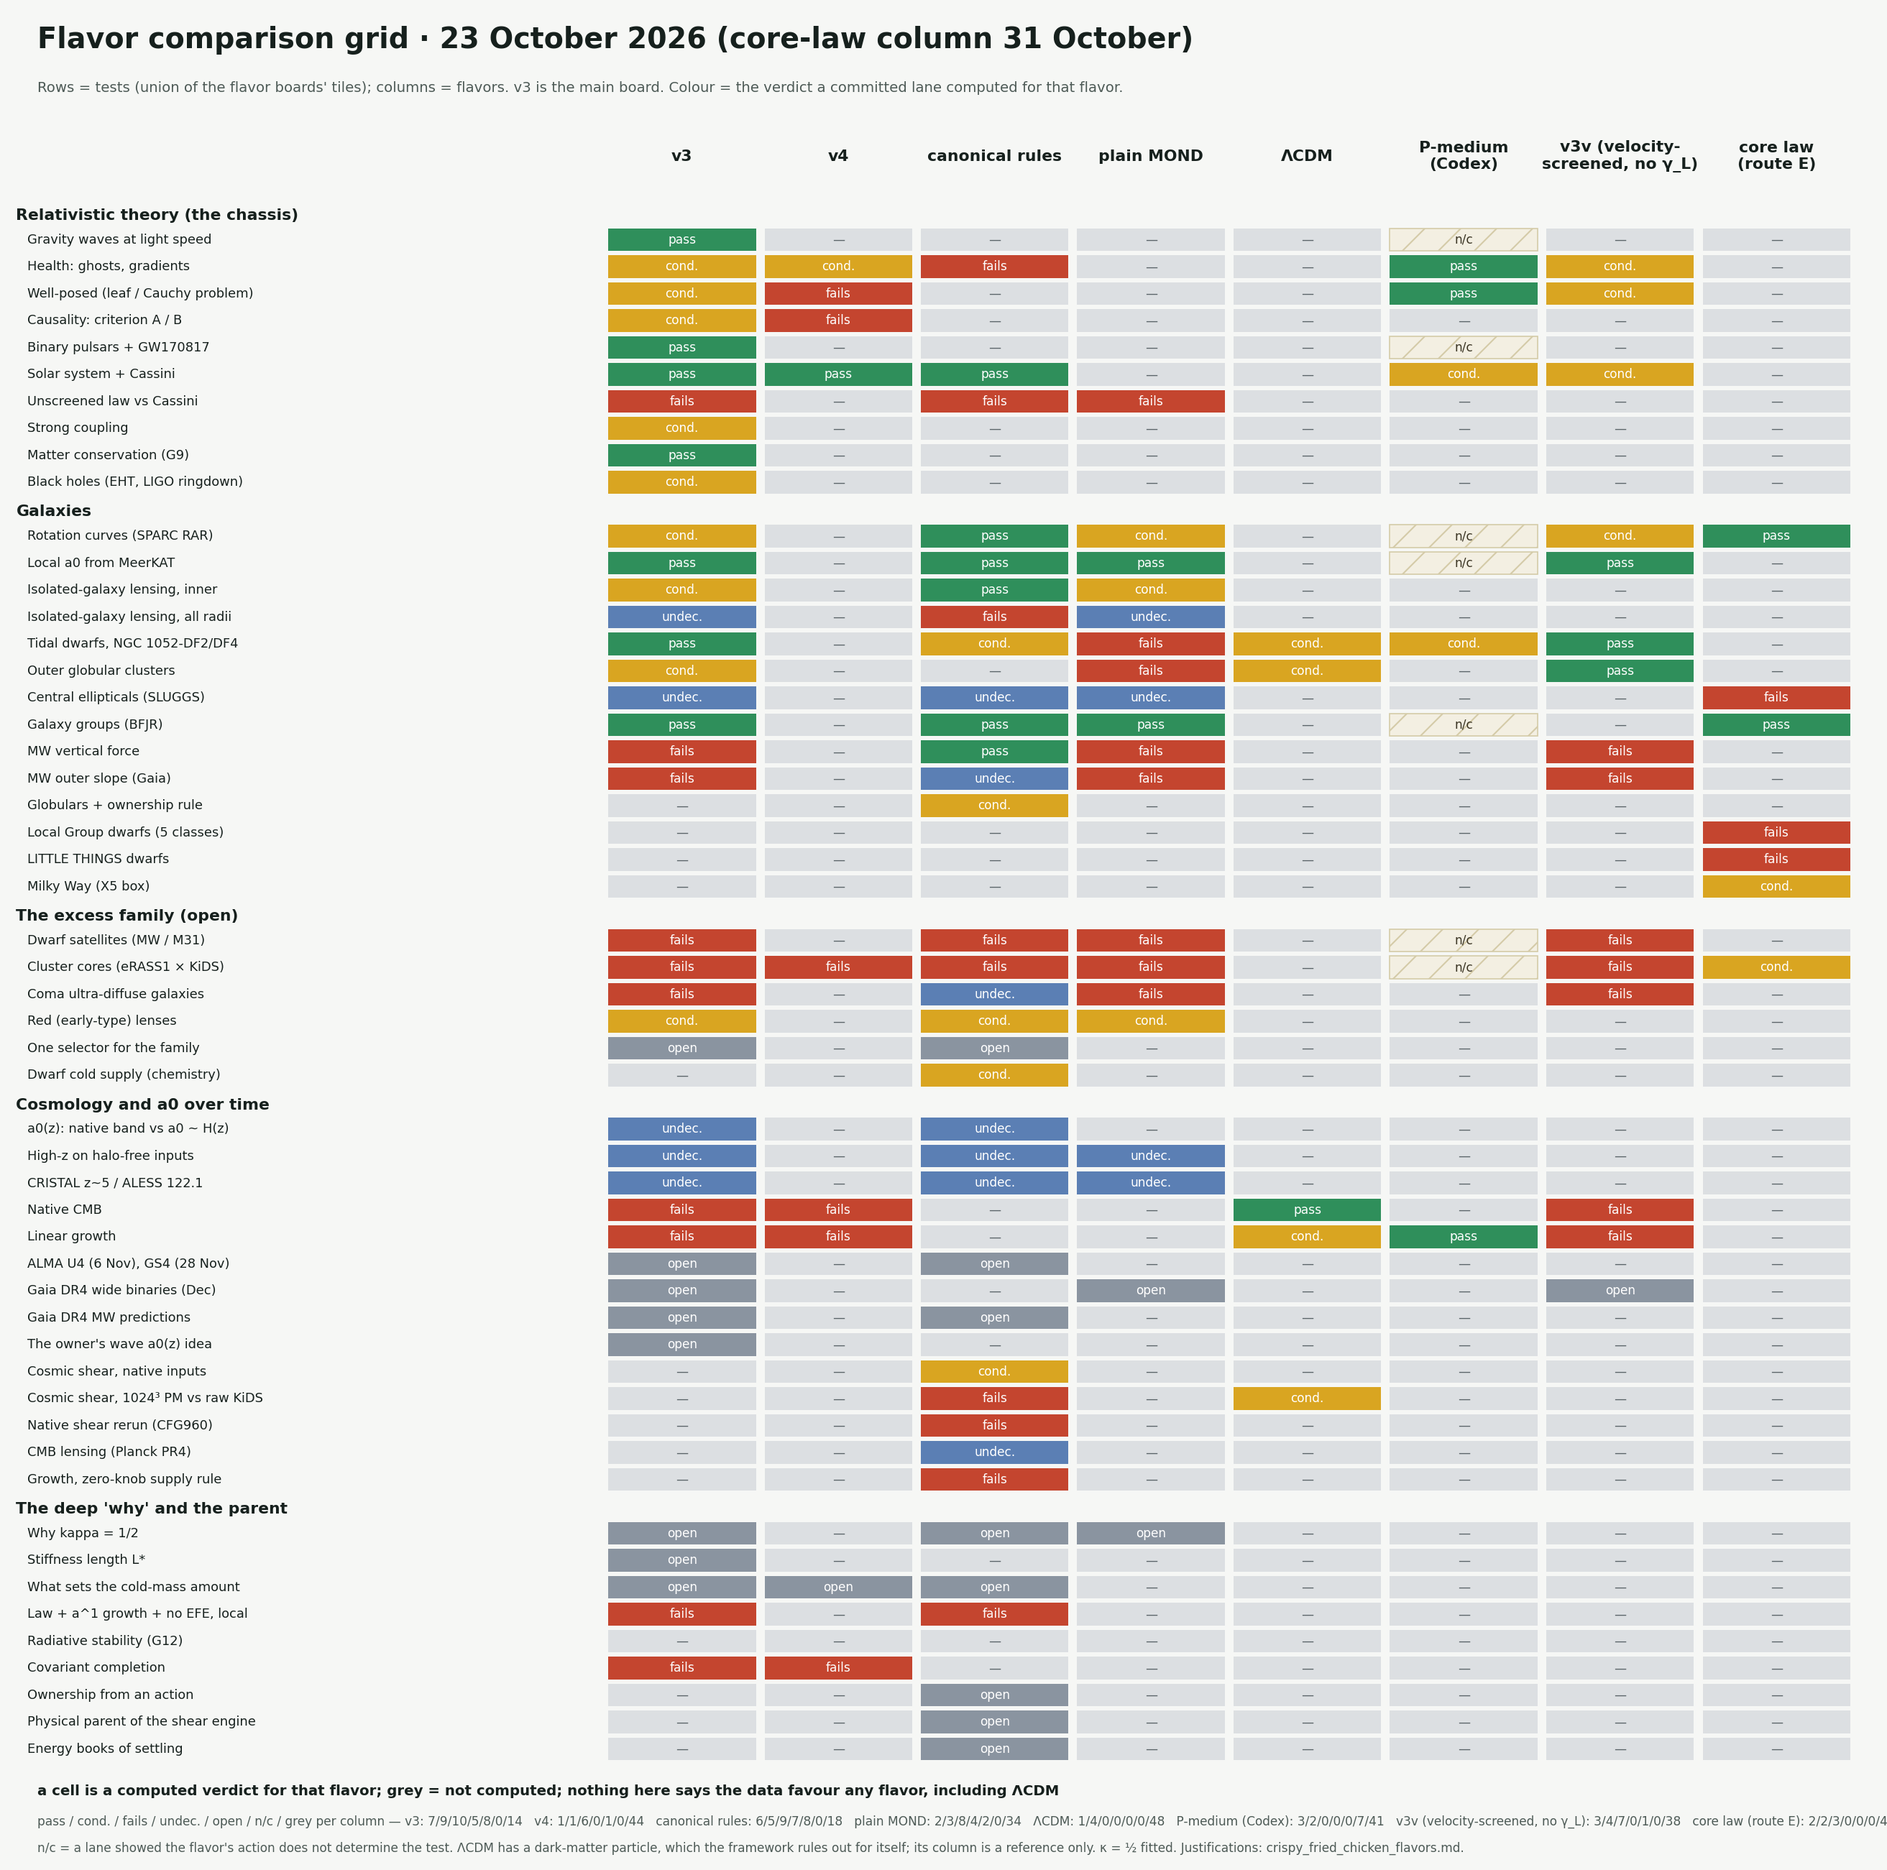
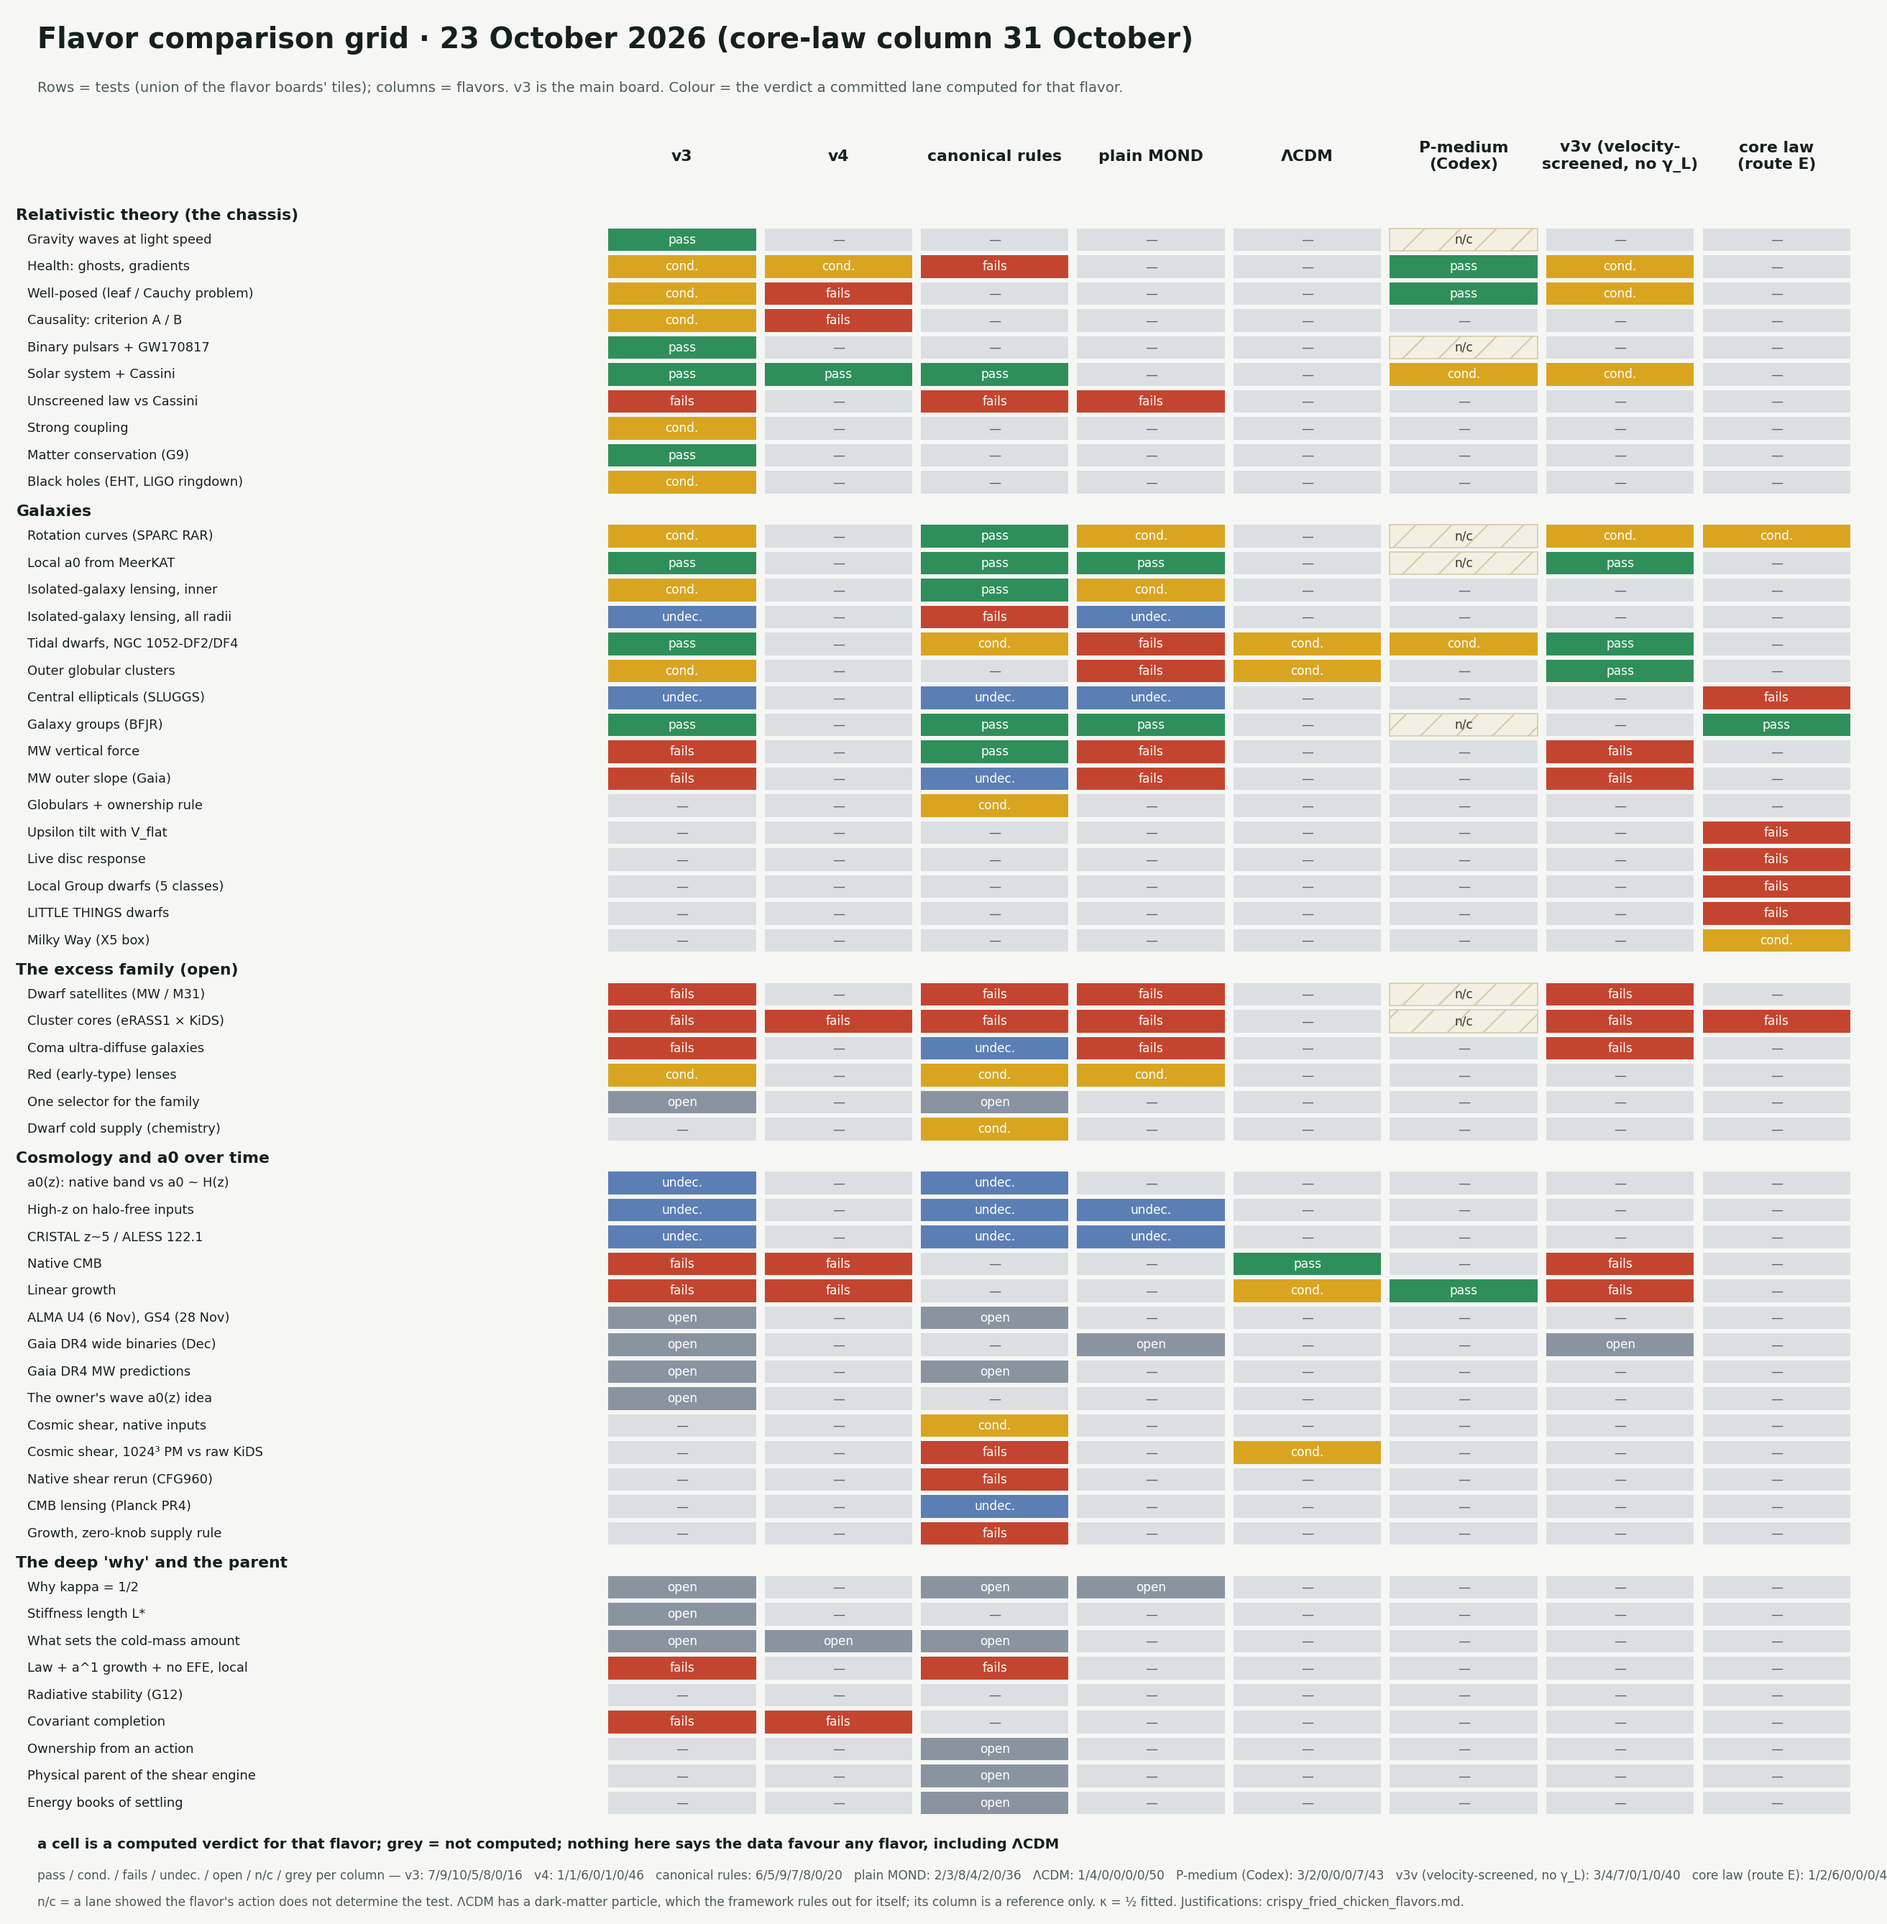
Core-law board and comparison grid to 1 November: clusters conditional to FAIL on measured gas (ZN4, GS4), SPARC pass to conditional (NR2, NOISE-LIMITED, 24 of 40 draws), new tiles for tilt and live disc response, LITTLE THINGS on NR3. Selftest and mutate pass. Main board stays v3s. kappa = 1/2 FITT

diff --git a/explainers/make_flavor_boards.py b/explainers/make_flavor_boards.py
@@ -53,7 +53,7 @@ OUT_BOARD = {"v4": "status_board_v4.png", "canonical": "status_board_canonical_r
              "pmedium": "status_board_pmedium.png", "v3v": "status_board_v3v.png",
              "coreE": "status_board_core_law.png"}
 OUT_GRID = "flavor_comparison_grid.png"
-BOARD_DATE = {"coreE": "31 October 2026"}   # flavors added later carry their own date
+BOARD_DATE = {"coreE": "1 November 2026"}   # flavors added later carry their own date
 
 FLAVORS = ["v3", "v4", "canonical", "plain_mond", "lcdm", "pmedium", "v3v", "coreE"]
 TITLE = {"v3": "v3", "v4": "v4", "canonical": "canonical rules", "plain_mond": "plain MOND", "lcdm": "ΛCDM",
@@ -77,7 +77,7 @@ RECIPES = {
     "v3v": "Literal Blanchet–Skordis Khronon (J_x, BS K(Q) dust) + covector P, with NO γ_L stiffness. Moving subsystems "
            "hold phantom only within 2GM_b/V² (velocity screening). κ fitted; no L★.",
     "coreE": "Route E (owner's flagship, 10-25), no a₀ floor (owner, 10-31): Newtonian gravity on baryons + cold dark energy halos with the smooth core "
-             "ρ₀/(1+x²)^(3/2) at ρ₀r₀ = f_c η Σ_coll, native η; fair share inside r_ta; no law force. κ fitted in the a₀ law only.",
+             "ρ₀/(1+x²)^(3/2) at ρ₀r₀ = f_c η Σ_coll, native η; fair share inside r_ta; no law force. κ fitted in the a₀ law only. Fails on measured gas; retiring it is the owner's call.",
 }
 PSEUDO = {"newton"}   # the Newtonian / GR limit some lanes compute as a row; never a column of its own
 
@@ -207,6 +207,10 @@ L("NF1", {"coreE"}, R + "NF1_no_floor_rule/README.md:L1-L14 (no floor); nf1_nati
 L("ND1", {"coreE"}, R + "ND1_native_dwarfs/README.md:L5-L25 (native N on SPARC, X80's ratios)")
 L("ZN3", {"coreE"}, R + "ZN3_native_shape_at_1e15/README.md:L1-L12 (native z = 0 profile)")
 L("RG1", {"coreE"}, R + "RG1_native_n_regrade/README.md:L1-L20 (native N regrade)")
+L("NR2", {"coreE"}, R + "NR2_low_mass_ng80/README.md:L1-L27 (N with all three anchors at ng 80)")
+L("NR3", {"coreE"}, R + "NR3_ur1_on_nr2/README.md:L1-L18 (EM1 off and Blumenthal on NR2's eta)")
+L("ZN4", {"coreE"}, R + "ZN4_cluster_resolution/README.md:L1-L15 (native profile at ng 80, measured gas)")
+L("LC1", {"coreE"}, R + "LC1_live_contraction/README.md:L1-L19 (disc grown live in the zoom)")
 
 # ---------------------------------------------------------------------------------------------------------------------
 # What each lane itself concluded: (lane, flavor computed, row) -> (colour, file:line where the lane states it).
@@ -218,14 +222,14 @@ def V(lane, comp, row, st, where):
 
 
 # core law (route E): X70 (f★ 0.20) and X71 (measured f★); SPARC and groups do not use f★ (X71 README L13)
-V("NF1", "coreE", "Rotation curves (SPARC RAR)", "PASS", R + "X80_low_mass_floor_emergence/README.md:L18 (native N, Υ 0.70 / 0.72; "
-  "no footing in the halo)")
-V("NF1", "coreE", "Galaxy groups (BFJR)", "PASS", R + "X80_low_mass_floor_emergence/README.md:L18 (groups Z +1.45)")
-V("ZN3", "coreE", "Cluster cores (eRASS1 × KiDS)", "COND", R + "ZN3_native_shape_at_1e15/README.md:L1-L12 (15 of 15 on X-COP's gas, "
-  "11-12 on eRASS1's; the S rule itself fails three keys, NF1)")
+V("NR2", "coreE", "Rotation curves (SPARC RAR)", "PASS", R + "NR2_low_mass_ng80/README.md:L1 (ALL-NG80 PASSES [NOISE-LIMITED], Υ 0.75 / 0.76)")
+V("NR3", "coreE", "Galaxy groups (BFJR)", "PASS", R + "NR3_ur1_on_nr2/README.md:L9 (EM1 off, Z +1.47)")
+V("ZN4", "coreE", "Cluster cores (eRASS1 × KiDS)", "FAIL", R + "ZN4_cluster_resolution/README.md:L11 (measured gas +0.005: X-COP ONLY, 12 of 15, G-OUT-M3 +4.41)")
 V("RG1", "coreE", "Central ellipticals (SLUGGS)", "FAIL", R + "RG1_native_n_regrade/README.md:L1-L14 (+0.125, 1 of 4)")
 V("RG1", "coreE", "Local Group dwarfs (5 classes)", "FAIL", R + "RG1_native_n_regrade/README.md:L9-L21 (0 of 5)")
-V("ND1", "coreE", "LITTLE THINGS dwarfs", "FAIL", R + "ND1_native_dwarfs/README.md:L5-L25 (median E +0.138)")
+V("NR3", "coreE", "LITTLE THINGS dwarfs", "FAIL", R + "NR3_ur1_on_nr2/README.md:L9 (EM1 off, +0.153 / +0.147)")
+V("NR3", "coreE", "Upsilon tilt with V_flat", "FAIL", R + "NR3_ur1_on_nr2/README.md:L9 (EM1 off, tilt +0.59)")
+V("LC1", "coreE", "Live disc response", "FAIL", R + "LC1_live_contraction/README.md:L6 (f_Q 0.872, BLUMENTHAL HOLDS); NR3_ur1_on_nr2/README.md:L10 (Υ 0.35 / 0.36 with it)")
 V("RG1", "coreE", "Milky Way (X5 box)", "COND", R + "RG1_native_n_regrade/README.md:L9-L14 (wide priors only)")
 # v4
 V("H3", "v4", "Health: ghosts, gradients", "COND", TV3 + ":L26-L30")
@@ -393,8 +397,7 @@ VERIFIED_GREEN_F = {
         "coordinator rerun identical; with U1 (54ee83e54e; coordinator rerun: main 15/16, A2 6/6)"),
     ("v3v", "Outer globular clusters"): ("O1", "ecbb964b0e", "coordinator rerun identical"),
     ("v3v", "Local a0 from MeerKAT"): ("P4", "6c0249a8bc", "coordinator rerun 2026-10-23: P4 identical except peak RSS"),
-    ("coreE", "Rotation curves (SPARC RAR)"): ("NF1", "a42ae32a01", "ND1 reruns native N with X80's ratios: Υ 0.70 / 0.72 (73805754b6)"),
-    ("coreE", "Galaxy groups (BFJR)"): ("NF1", "a42ae32a01", "nf1_native_read --check reproduces N0 grader output to 1e-9; K3 ΔZ = 0 for the floor at group masses"),
+    ("coreE", "Galaxy groups (BFJR)"): ("NR3", "8621c6f5dd", "NR3 K1 reproduces NR2's run of the same name, |d| 0, by a separate driver; independent audit of 11-01 clean"),
     ("lcdm", "Native CMB"): ("C2", "5e93769089",
         "the ΛCDM refit is reproduced independently by C7 K1 (README L161: 1003.48 vs C2's 1003.20) and Q6 "
         "(README L21: 1003.47)"),
@@ -648,15 +651,17 @@ CELLS = [
     C("pmedium", 3, "Linear growth", "PASS",
       "σ₈ / dust limit 0.9991 (from a = 1e-3), 0.967 (1e-4); a WDM-like cutoff at k ~ 1–6 h/Mpc is flagged", ["Y1"]),
     # ---------------- core law (route E, smooth core): X70 / X71 ----------------
-    C("coreE", 1, "Rotation curves (SPARC RAR)", "PASS",
-      "native N, no floor: line passes, Υ 0.70 / 0.72, rms 0.068; Υ runs 1.20 to 0.54 with V_flat; law's rms 0.054", ["NF1", "ND1"]),
-    C("coreE", 1, "Galaxy groups (BFJR)", "PASS", "63 groups, Z +1.45 on native N", ["NF1"]),
-    C("coreE", 2, "Cluster cores (326 eRASS1)", "COND",
-      "native z = 0 profile: 15 of 15 on X-COP's gas, 11–12 on eRASS1's own; S rule: three keys over, X-COP −0.186 / 0.214", ["ZN3", "RG1"]),
-    C("coreE", 1, "Central ellipticals (SLUGGS)", "FAIL", "mean +0.125, Zc +6.1, 1 of 4", ["RG1"]),
-    C("coreE", 1, "Local Group dwarfs (5 classes)", "FAIL", "0 of 5, all under, Z +3.1 to +6.6; S and M200 extrapolated below 1e10; floor had 4 of 5", ["RG1"]),
-    C("coreE", 1, "LITTLE THINGS dwarfs", "FAIL", "median E +0.138, line 0.10, short in all 200 seed draws", ["ND1"]),
-    C("coreE", 1, "Milky Way (X5 box)", "COND", "wide priors only: 7 cells, R_d 1.93–2.27; none inside priors; V_c 202.8 on McMillan", ["RG1"]),
+    C("coreE", 1, "Rotation curves (SPARC RAR)", "COND",
+      "all anchors at ng 80: line passes at medians, Υ 0.75 / 0.76, rms 0.069, NOISE-LIMITED; 24 of 40 seed draws pass; Υ runs 1.20 to 0.57 with V_flat", ["NR2"]),
+    C("coreE", 1, "Galaxy groups (BFJR)", "PASS", "63 groups, Z +1.47, ng 80 anchors", ["NR3"]),
+    C("coreE", 2, "Cluster cores (326 eRASS1)", "FAIL",
+      "measured gas +0.005: native X-COP passes, 12 of 15, G-OUT-M3 +4.41 / +4.13; 15 of 15 only at +0.111, which GS4 doesn't support", ["ZN4"]),
+    C("coreE", 1, "Upsilon tilt with V_flat", "FAIL", "tilt +0.59 against 0.15; with response +0.17, Υ then 0.35", ["NR3"]),
+    C("coreE", 1, "Live disc response", "FAIL", "live zoom f_Q 0.87 [0.54, 1.07]; Υ 0.35 / 0.36 with response, 150–250 km/s at 0.30, 0.36 at any low-mass η; cusps only, cored test pending", ["LC1", "NR3"]),
+    C("coreE", 1, "Central ellipticals (SLUGGS)", "FAIL", "mean +0.125, Zc +6.1, 1 of 4; not recomputed on NR2", ["RG1"]),
+    C("coreE", 1, "Local Group dwarfs (5 classes)", "FAIL", "0 of 5, all under, Z +3.1 to +6.6; not recomputed on NR2; floor had 4 of 5", ["RG1"]),
+    C("coreE", 1, "LITTLE THINGS dwarfs", "FAIL", "median E +0.153 / +0.147 at ng 80 anchors, line 0.10", ["NR3"]),
+    C("coreE", 1, "Milky Way (X5 box)", "COND", "wide priors only: 7 cells, R_d 1.93–2.27; none inside priors; not recomputed on NR2", ["RG1"]),
 ]
 
 

diff --git a/explainers/crispy_fried_chicken_flavors.md b/explainers/crispy_fried_chicken_flavors.md
@@ -34,18 +34,18 @@ Boards: [v4](img/status_board_v4.png) · [canonical rules](img/status_board_cano
 
 ## Counts
 
-The grid has 50 rows.
+The grid has 52 rows.
 
 | flavor | pass | conditional | fails | not decidable | open | n/c (not computable) | grey (not computed) |
 |---|---|---|---|---|---|---|---|
-| v3 | 7 | 9 | 10 | 5 | 8 | 0 | 14 |
-| v4 | 1 | 1 | 6 | 0 | 1 | 0 | 44 |
-| canonical rules | 6 | 5 | 9 | 7 | 8 | 0 | 18 |
-| plain MOND | 2 | 3 | 8 | 4 | 2 | 0 | 34 |
-| ΛCDM | 1 | 4 | 0 | 0 | 0 | 0 | 48 |
-| P-medium (Codex) | 3 | 2 | 0 | 0 | 0 | 7 | 41 |
-| v3v (velocity-screened, no γ_L) | 3 | 4 | 7 | 0 | 1 | 0 | 38 |
-| core law (route E) | 2 | 2 | 3 | 0 | 0 | 0 | 46 |
+| v3 | 7 | 9 | 10 | 5 | 8 | 0 | 16 |
+| v4 | 1 | 1 | 6 | 0 | 1 | 0 | 46 |
+| canonical rules | 6 | 5 | 9 | 7 | 8 | 0 | 20 |
+| plain MOND | 2 | 3 | 8 | 4 | 2 | 0 | 36 |
+| ΛCDM | 1 | 4 | 0 | 0 | 0 | 0 | 50 |
+| P-medium (Codex) | 3 | 2 | 0 | 0 | 0 | 7 | 43 |
+| v3v (velocity-screened, no γ_L) | 3 | 4 | 7 | 0 | 1 | 0 | 40 |
+| core law (route E) | 1 | 2 | 6 | 0 | 0 | 0 | 46 |
 
 ## v4
 
@@ -244,7 +244,7 @@ The grid has 50 rows.
 - **v3v (velocity-screened, no γ_L).** Its own cells come from O1 §3 (ecbb964b0e) with H4 and H5. A reused v3 verdict needs a cited line showing γ_L does not enter (the guard requires it). Grey: groups (O1 L112: members DEPEND on whether the group's khronon is held); the strong-field rows (P3's regular holes and strong coupling depend on L★; only the static exterior, P3 L25, is γ_L-free); lensing, SLUGGS, high-z and the rest, which were never shown to be γ_L-free. BBN (Q6, γ_L-free per Q6 L172) has no grid row, because the main board refused that tile. Outer globulars take O1's own class (PASS, PROXY speeds); Cassini is drawn conditional because O1 calls it an estimate.
 - **Canonical rules, CFG960.** It is counted under the canonical rules, as the coordinator classed it; N0 labels it the SCT-M engine (domains, conversion of cold energy into phantom bodies, census baryons; AUDIT L52-L53, L116).
 
-## core law (route E) (added 29 October 2026; rule changed 31 October)
+## core law (route E) (added 29 October 2026; rule changed 31 October; recomputed 1 November)
 
 **Recipe:** Route E, the owner's 25 October flagship, without the a₀ floor (owner decision 31 October): Newtonian gravity on baryons plus cold dark energy halos.
 - **Halo shape:** the smooth core ρ₀/(1+x²)^(3/2), chosen by hand. Native zooms make cusps.
@@ -254,7 +254,9 @@ The grid has 50 rows.
 
 ![core law board](img/status_board_core_law.png)
 
-Only seven rows are computed for this flavor; every other row is grey.
+Nine rows are computed for this flavor; every other row is grey.
+
+**1 November.** On measured gas, the cluster tile goes from conditional to fails: ZN4 at GS4's +0.005 reads X-COP ONLY, 12 of 15, G-OUT-M3 +4.41, and +0.111 isn't supported. SPARC goes from pass to conditional: NR2 passes at the medians, Υ 0.75 / 0.76, but it's NOISE-LIMITED and only 24 of 40 seed draws pass (post-result). New tiles: the Υ tilt with V_flat and the live disc response, both failing. LITTLE THINGS is regraded on NR3. SLUGGS, Local Group and Milky Way stay as RG1, not recomputed on NR2. Doors tried on 11-01 (DR1–DR9, CP1) and pending lanes (PZ1, DR8, FG1) aren't on this board: they test other rules, or haven't landed. κ = ½ FITTED. Nothing here says the data favour the framework.
 
 | row | colour | lane | why |
 |---|---|---|---|
